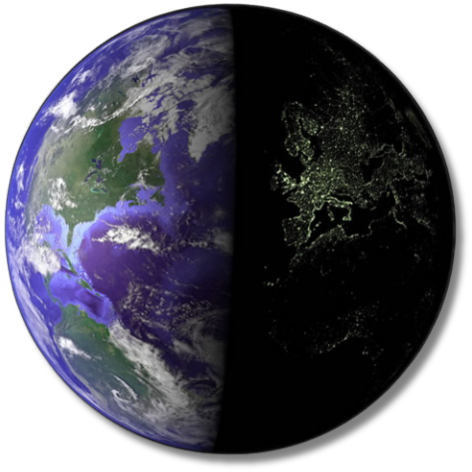
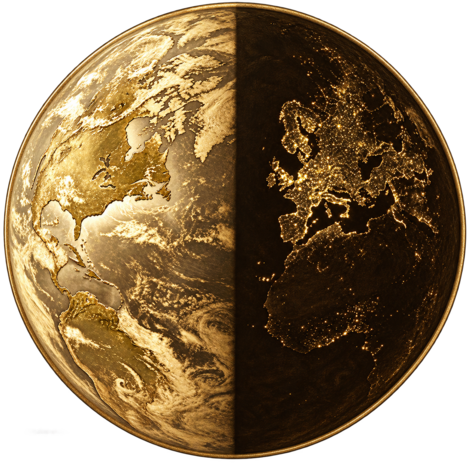
Refresh I Ching and light-dark Earth artwork in gold

diff --git a/webapp/WebApplication/Content/less/sections/iching.less b/webapp/WebApplication/Content/less/sections/iching.less
@@ -14,30 +14,35 @@
 
     .hexagram-hex-container {
         width: 163px;
-        height: auto;
+        height: 163px;
         margin: 20px auto;
-        padding: 11px;
-        background: @whisper-white;
-        
+        padding: 16px;
+        display: flex;
+        flex-direction: column;
+        justify-content: center;
+        gap: 9px;
+        background: url("../../../Images/ninestar/magic-square-plate.png") center / 100% 100% no-repeat;
+
         .hex-line {
             width: 124px;
             height: 10px;
-            margin: 9px auto;
-            background: black;
+            margin: 0 auto;
+            flex-shrink: 0;
+            --hexagram-line-color: #291a0b;
+            background: var(--hexagram-line-color);
+            filter: drop-shadow(0 1px 0 rgba(63, 34, 4, 0.55));
             position: relative;
 
             &.changing {
-                background: var(--vibrant-orange);
+                --hexagram-line-color: var(--vibrant-orange);
             }
         }
 
-        .yin::before {
-            content: "";
-            position: absolute;
-            width: 20px;
-            height: 10px;
-            background: white;
-            left: 52px;
+        .hex-line.yin {
+            background: linear-gradient(to right,
+                var(--hexagram-line-color) 0, var(--hexagram-line-color) 52px,
+                transparent 52px, transparent 72px,
+                var(--hexagram-line-color) 72px, var(--hexagram-line-color) 100%);
         }
     }
 

diff --git a/webapp/WebApplication/Content/sections/iching.css b/webapp/WebApplication/Content/sections/iching.css
@@ -99,28 +99,33 @@
 }
 .hexagram-container .hexagram-hex-container {
   width: 163px;
-  height: auto;
+  height: 163px;
   margin: 20px auto;
-  padding: 11px;
-  background: #f9f9f9;
+  padding: 16px;
+  display: flex;
+  flex-direction: column;
+  justify-content: center;
+  gap: 9px;
+  background: url("../../Images/ninestar/magic-square-plate.png") center / 100% 100% no-repeat;
 }
 .hexagram-container .hexagram-hex-container .hex-line {
   width: 124px;
   height: 10px;
-  margin: 9px auto;
-  background: black;
+  margin: 0 auto;
+  flex-shrink: 0;
+  --hexagram-line-color: #291a0b;
+  background: var(--hexagram-line-color);
+  filter: drop-shadow(0 1px 0 rgba(63, 34, 4, 0.55));
   position: relative;
 }
 .hexagram-container .hexagram-hex-container .hex-line.changing {
-  background: var(--vibrant-orange);
+  --hexagram-line-color: var(--vibrant-orange);
 }
-.hexagram-container .hexagram-hex-container .yin::before {
-  content: "";
-  position: absolute;
-  width: 20px;
-  height: 10px;
-  background: white;
-  left: 52px;
+.hexagram-container .hexagram-hex-container .hex-line.yin {
+  background: linear-gradient(to right,
+    var(--hexagram-line-color) 0, var(--hexagram-line-color) 52px,
+    transparent 52px, transparent 72px,
+    var(--hexagram-line-color) 72px, var(--hexagram-line-color) 100%);
 }
 .hexagram-container .hexagram-title {
   margin-top: 14px;

diff --git a/webapp/WebApplication/Helpers/MobileArtworkRegistry.Data.cs b/webapp/WebApplication/Helpers/MobileArtworkRegistry.Data.cs
@@ -5,7 +5,7 @@ namespace K9.WebApplication.Helpers
     {
         private static readonly ArtworkSource[] Sources =
         {
[5 lines of base64/hex data omitted]
@@ -295,8 +295,8 @@ namespace K9.WebApplication.Helpers
[10 lines of base64/hex data omitted]

diff --git a/docs/visual-design.md b/docs/visual-design.md
@@ -47,3 +47,7 @@ Relationship diagrams retain open transparent space between gold element emblems
 Energy identifiers use large central serif numerals (at least 75% height as the design target), in their established colours: white Water/Heaven/Mountain, black Soil, bright green Thunder, deep green Wind, yellow Core Earth, red Lake and purple Fire. Composite the numeral fill at 90% opacity over a single continuous artwork background; do not generate a different imitation pattern inside the number. Preserve the approved visible background and transparent exterior. Core Earth uses minimal circular core/globe embossing.
 
 The HTML magic square uses the existing Cormorant Infant serif font in bold lining numerals, enlarged at all four existing size presets. A thin gold embossed square plate sits behind the live grid; energy colours move to the numerals to match the medallions. Active/lunar-house scaling and direction overlays retain their existing semantics. The decorative plate contains no numbers or grid lines.
+
+I Ching calculator artwork uses a gold octagonal medallion with the exact original eight trigram shapes composited separately. Live hexagrams reuse the square gold plate; render their six bars and changing-line colours in HTML/CSS, with genuinely transparent broken-line gaps. See docs/iching-artwork.md.
+
+The explicitly approved `Images/about/light-dark.png` refresh preserves the day/night Earth composition: champagne-gold daylight on the left, deep bronze night with gold city lights on the right. It remains a 472 × 472 PNG with transparent exterior. Built-in image generation uses the original as its reference; the subject brief is a front-facing gold relief globe, vertical central terminator, no labels or exterior shadow.

diff --git a/docs/iching-artwork.md b/docs/iching-artwork.md
@@ -1,0 +1,7 @@
+# I Ching gold artwork
+
+The calculator's existing iching.png and iching-dark.png are both replaced by the same warm gold octagonal medallion at their original 200 × 200 PNG dimensions, with alpha outside the octagon. The eight trigram shapes and central disc come from the original image alpha, scaled uniformly onto a generated blank gold octagonal substrate. Trigram line order and solid/broken topology are preserved rather than generated. Both existing light/dark image paths and UI visibility rules remain in place.
+
+The HTML hexagram uses the existing shared magic-square gold plate at its unchanged 163px width, with a 163px square backing and centred flex layout. Each of its six bars remains 124 × 10px with 9px spacing. Yin gaps remain exactly 20px wide (52px to 72px), now truly transparent via a split CSS gradient instead of a white overlay. Ordinary bars use deep bronze; changing bars retain the existing vibrant-orange theme token. A restrained lower edge adds relief. Hexagram model, line order, changing-line state, form submission, labels and interpretations are unchanged.
+
+LESS and compiled CSS use their respective correct relative Images paths for virtual-directory installations. The shared plate is already registered for publishing; no duplicate backing asset is added. Catalogue revisions are regenerated. Validation covers original icon dimensions, PNG encoding and alpha, identical theme variants, source/compiled bar geometry, transparent yin gaps, changing-colour token and catalogue checks. Browser rendering and the Windows build are not executed here.
